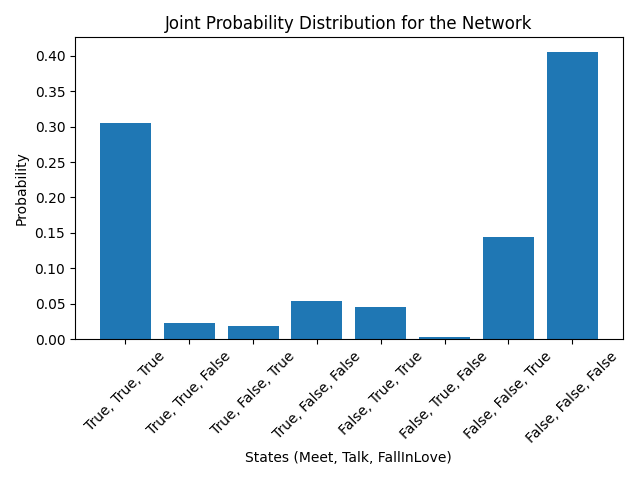
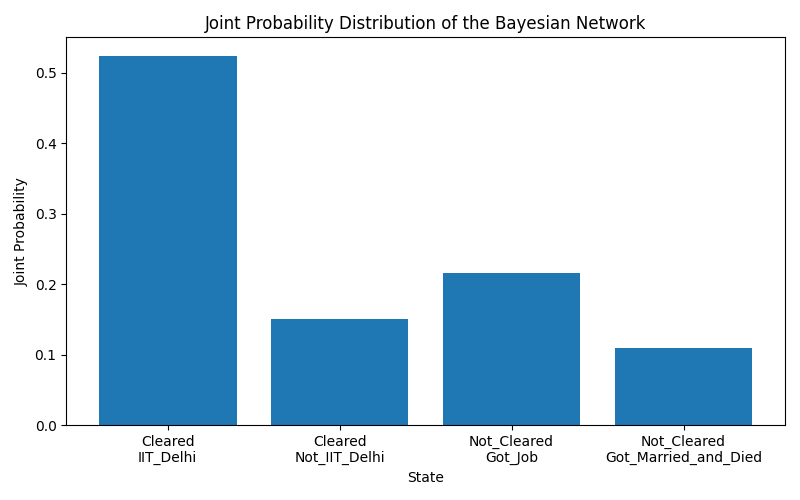
more cleaner and simple version

diff --git a/future_more.py b/future_more.py
@@ -1,0 +1,114 @@
+import random
+import matplotlib.pyplot as plt
+
+
+# ---------------------------------------------------------------------------
+# Bayesian network structure
+# ---------------------------------------------------------------------------
+#
+#   GATE_Result --> Outcome
+#
+# GATE_Result has two states: "Cleared", "Not_Cleared"
+# Outcome's *domain itself* depends on the parent state:
+#   if GATE_Result = Cleared      -> Outcome in {IIT_Delhi, Not_IIT_Delhi}
+#   if GATE_Result = Not_Cleared  -> Outcome in {Got_Job, Got_Married_and_Died}
+#
+# This avoids the old trick of having 7 separate nodes and manually zeroing
+# out "inconsistent" combinations -- here every entry in the joint table is
+# a genuinely reachable state, computed directly from real CPT values.
+
+NODES = ["GATE_Result", "Outcome"]
+
+PARENTS = {
+    "GATE_Result": [],
+    "Outcome": ["GATE_Result"],
+}
+
+# Which Outcome values are even possible under each GATE_Result state.
+OUTCOME_DOMAIN = {
+    "Cleared": ["IIT_Delhi", "Not_IIT_Delhi"],
+    "Not_Cleared": ["Got_Job", "Got_Married_and_Died"],
+}
+
+
+def build_random_cpts():
+    """Randomly generate the conditional probability tables (CPTs)."""
+
+    p_cleared = random.uniform(0, 0.8)  # P(GATE_Result = Cleared)
+    p_iit = random.uniform(0, 1)        # P(Outcome = IIT_Delhi | Cleared)
+    p_job = random.uniform(0, 1)        # P(Outcome = Got_Job | Not_Cleared)
+
+    cpts = {
+        "GATE_Result": {
+            "Cleared": p_cleared,
+            "Not_Cleared": 1 - p_cleared,
+        },
+        "Outcome": {
+            "Cleared": {
+                "IIT_Delhi": p_iit,
+                "Not_IIT_Delhi": 1 - p_iit,
+            },
+            "Not_Cleared": {
+                "Got_Job": p_job,
+                "Got_Married_and_Died": 1 - p_job,
+            },
+        },
+    }
+    return cpts
+
+
+def calculate_joint_probabilities(cpts):
+    """Multiply out P(GATE_Result) * P(Outcome | GATE_Result) for every
+    reachable (gate_result, outcome) pair. No dead branches, no zeroing."""
+
+    joint_probabilities = {}
+    for gate_state, p_gate in cpts["GATE_Result"].items():
+        for outcome in OUTCOME_DOMAIN[gate_state]:
+            p_outcome_given_gate = cpts["Outcome"][gate_state][outcome]
+            val = p_gate * p_outcome_given_gate
+            joint_probabilities[(gate_state, outcome)] = val
+            print(f"P(GATE_Result={gate_state}, Outcome={outcome}) = {val:.4f}")
+
+    return joint_probabilities
+
+
+def displaying_highest_joint_probability(joint_probabilities):
+    max_state = max(joint_probabilities, key=joint_probabilities.get)
+    max_probability = joint_probabilities[max_state]
+
+    print("\nMost likely future:")
+    for name, value in zip(NODES, max_state):
+        print(f"  {name}: {value}")
+    print(f"Joint probability of this future: {max_probability:.4f} ({max_probability:.2%})")
+
+
+def plot_joint_probabilities(joint_probabilities):
+    labels = [f"{gate}\n{outcome}" for gate, outcome in joint_probabilities.keys()]
+    values = list(joint_probabilities.values())
+
+    plt.figure(figsize=(8, 5))
+    plt.bar(range(len(values)), values, tick_label=labels)
+    plt.xlabel("State")
+    plt.ylabel("Joint Probability")
+    plt.title("Joint Probability Distribution of the Bayesian Network")
+    plt.tight_layout()
+    plt.savefig("visualisation/joint_probability_distribution.png")
+    plt.show()
+
+
+def future():
+    cpts = build_random_cpts()
+    joint_probabilities = calculate_joint_probabilities(cpts)
+    displaying_highest_joint_probability(joint_probabilities)
+    return NODES, PARENTS, cpts, joint_probabilities
+
+
+def main():
+    nodes, parents, cpts, joint_probabilities = future()
+    print("-" * 60)
+    displaying_highest_joint_probability(joint_probabilities)
+    plot_joint_probabilities(joint_probabilities)
+
+
+if __name__ == "__main__":
+    main()
